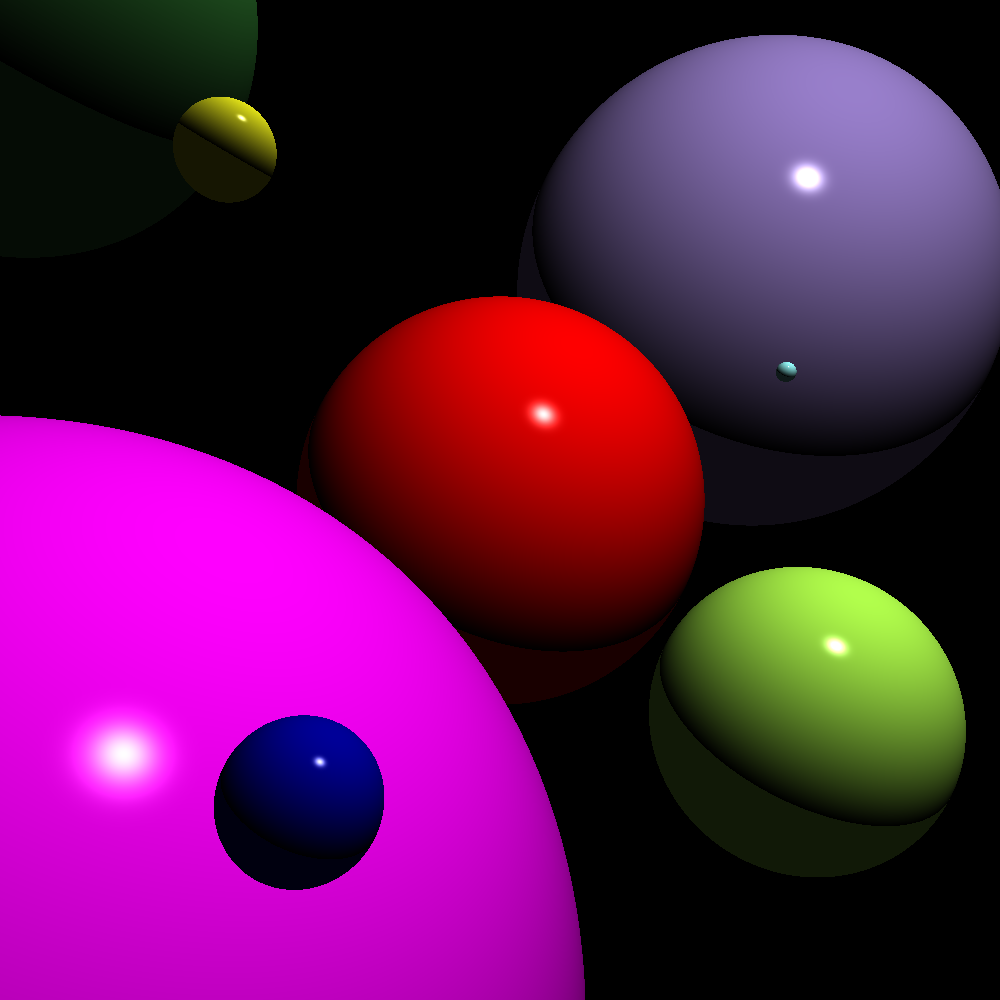
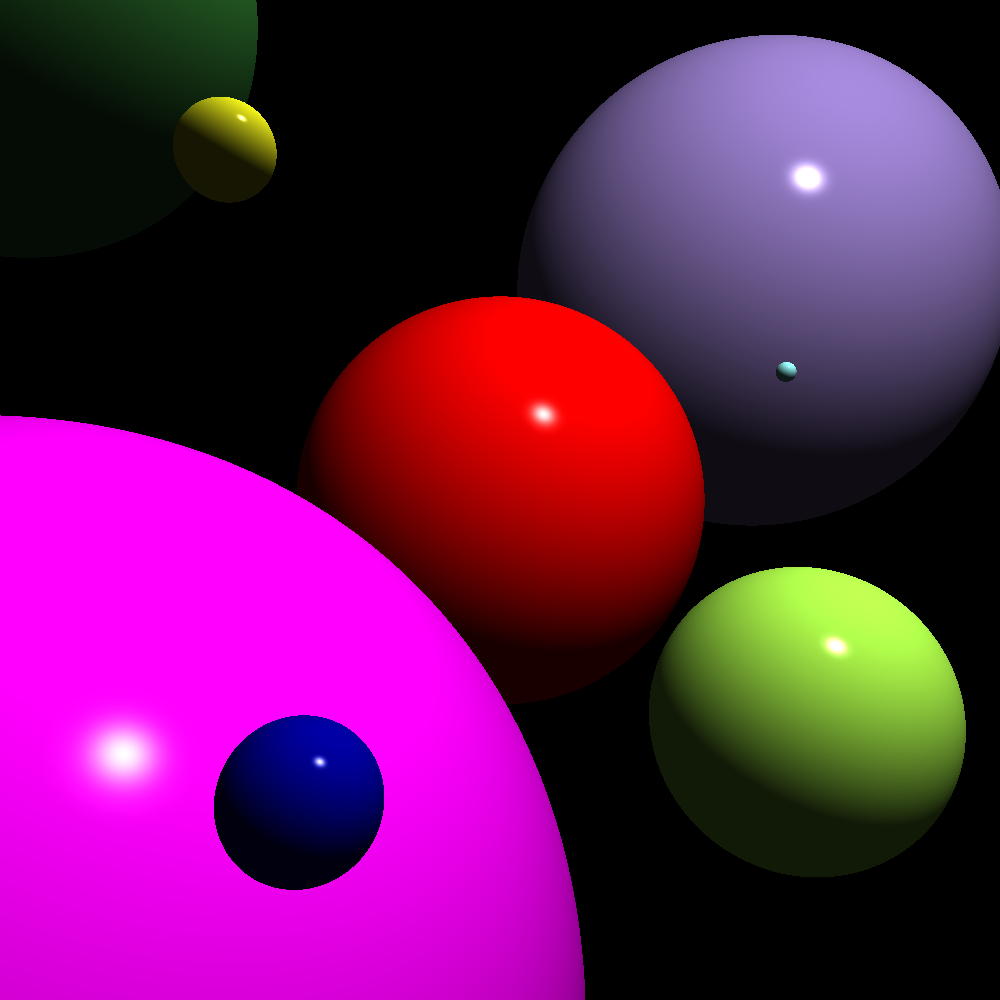
fix diffuse lighting bug

diff --git a/rt.cpp b/rt.cpp
@@ -34,7 +34,7 @@ COLOR_T trace(RAY_T ray, OBJ_T *list, Light light) {
         }
     }
     if (cl_obj != NULL) {
-        return color = light.illuminate(ray, cl_obj->color, cl_int_pt, cl_normal);
+        color = light.illuminate(ray, cl_obj->color, cl_int_pt, cl_normal);
     }
     return color;
 }
@@ -48,13 +48,13 @@ int main() {
     std::cout << "P6\n1000 1000\n255\n";
     for (int y = 0; y < 1000; y++) {
         for (int x = 0; x < 1000; x++) {
-            ray.dir.set(-0.5 + x / 1000.0, 0.5 - y / 1000.0, 1);
+            ray.dir.set(-0.5 + x/1000.0, 0.5 - y/1000.0, 1);
             ray.dir.normalize();
             pixel = trace(ray, list, light);
             std::cout
-                << (unsigned char)((pixel.r < 1 ? pixel.r : 1)* 255 )
-                << (unsigned char)((pixel.g < 1 ? pixel.g : 1)* 255 )
-                << (unsigned char)((pixel.b < 1 ? pixel.b : 1)* 255 );
+                << (unsigned char)((pixel.r < 1 ? pixel.r : 1) * 255)
+                << (unsigned char)((pixel.g < 1 ? pixel.g : 1) * 255)
+                << (unsigned char)((pixel.b < 1 ? pixel.b : 1) * 255);
         }
     }
     // gc

diff --git a/Light.cpp b/Light.cpp
@@ -20,9 +20,9 @@ COLOR_T Light::illuminate(RAY_T ray, COLOR_T surface_col, Vector int_pt, Vector 
     L.normalize();
     double dot = L.dot(normal);
     if (dot > 0) {
-        color.r = dot * surface_col.r;
-        color.g = dot * surface_col.g;
-        color.b = dot * surface_col.b;
+        color.r += dot * surface_col.r;
+        color.g += dot * surface_col.g;
+        color.b += dot * surface_col.b;
 
         // specular
         Vector R = L - normal * (2. * normal.dot(L));
